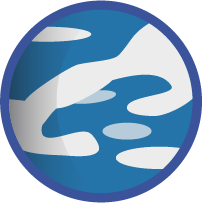
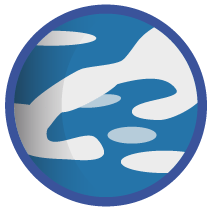
finish planet positionning

diff --git a/styles/style.css b/styles/style.css
@@ -150,7 +150,7 @@ body {
   width: 100%;
   height: 100%;
   border-radius: 50%;
-  background-color: #FFF;
+  background-color: #edc064;
   opacity: 0.6;
   position: absolute;
   top: 0;
@@ -180,9 +180,18 @@ body {
   }
 }
 
+.infos {
+  font-weight: 400;
+  color: #B9B9B9;
+  font-size: 11px;
+  letter-spacing: 4px;
+  text-align: center;
+  text-transform: uppercase;
+  margin-top: 3px;
+}
 .planet_1 {
   background: url(../images/tatooine.png);
-  position: absolute;
+  position: relative;
   top: 250px;
   left: 400px;
   background-size: cover;
@@ -199,7 +208,7 @@ body {
 }
 .planet_2 {
   background: url(../images/naboo.png);
-  position: absolute;
+  position: relative;
   top: 250px;
   left: 600px;
   background-size: cover;
@@ -217,8 +226,8 @@ body {
 
 .planet_3 {
   background: url(../images/hoth.png);
-  position: absolute;
-  top: 600px;
+  position: relative;
+  top: 400px;
   left: 817px;
   background-size: cover;
   width: 76px;
@@ -229,10 +238,81 @@ body {
 .planet_3:hover {
   background: url(../images/hothh.png);
   background-size: cover;
-  width: 77px;
-  height: 77px;
+  width: 76px;
+  height: 75px;
 }
 
+.planet_4 {
+  background: url(../images/mustafar.png);
+  position: relative;
+  top: 200px;
+  left: 900px;
+  background-size: cover;
+  width: 41px;
+  height: 40px;
+  cursor: pointer;
+}
+
+.planet_4:hover {
+  background: url(../images/mustafarh.png);
+  background-size: cover;
+  width: 41px;
+  height: 40px;
+}
+
+.planet_5 {
+  background: url(../images/dagobah.png);
+  position: relative;
+  top: -150px;
+  left: 1200px;
+  background-size: cover;
+  width: 55px;
+  height: 55px;
+  cursor: pointer;
+}
+
+.planet_5:hover {
+  background: url(../images/dagobahh.png);
+  background-size: cover;
+  width: 55px;
+  height: 55px;
+}
+
+.planet_6 {
+  background: url(../images/kaminop.png);
+  position: relative;
+  top: 350px;
+  left: 300px;
+  background-size: cover;
+  width: 85px;
+  height: 85px;
+  cursor: pointer;
+}
+
+.planet_6:hover {
+  background: url(../images/kaminoph.png);
+  background-size: cover;
+  width: 85px;
+  height: 85px;
+}
+
+.planet_7 {
+  background: url(../images/alderaan.png);
+  position: relative;
+  top: 200px;
+  left: 800px;
+  background-size: cover;
+  width: 85px;
+  height: 85px;
+  cursor: pointer;
+}
+
+.planet_7:hover {
+  background: url(../images/alderaanh.png);
+  background-size: cover;
+  width: 85px;
+  height: 85px;
+}
 
 /**********
 
@@ -244,27 +324,30 @@ body {
   position: absolute;
   left: 0;top: 0;bottom: 0;
   width: 400px;
-  height: 400px;
   background-color: #191d3f;
 }
 
-
+.carac > div {
+  vertical-align: top;
+}
 
 .expand-transition {
-  position: absolute;
-  left: 0;top: 0;bottom: 0;
   width: 350px;
-  height: 100%;
   opacity: 1;
   background: linear-gradient(to right, rgba(255,0,0,0), rgba(25, 29, 63, 1));
   transition: all .5s ease;
   -webkit-box-shadow: 5px 0px 28px 0px rgba(0,0,0,0.42);
--moz-box-shadow: 5px 0px 28px 0px rgba(0,0,0,0.42);
-box-shadow: 5px 0px 28px 0px rgba(0,0,0,0.42);
+  -moz-box-shadow: 5px 0px 28px 0px rgba(0,0,0,0.42);
+  box-shadow: 5px 0px 28px 0px rgba(0,0,0,0.42);
 }
 .expand-enter, .expand-leave {
   left: -400px;
   opacity: 0;
+}
+
+#layout {
+  position: absolute;
+  top: 0;right: 0;left: 0;bottom: 0;
 }
 
 .name {
@@ -312,6 +395,7 @@ box-shadow: 5px 0px 28px 0px rgba(0,0,0,0.42);
   height: 37px;
   margin: auto;
   margin-bottom: 8px;
+  cursor: pointer;
 
 }
 
@@ -333,6 +417,7 @@ box-shadow: 5px 0px 28px 0px rgba(0,0,0,0.42);
   height: 37px;
   margin: auto;
   margin-bottom: 8px;
+  cursor: pointer;
 
 }
 
@@ -355,6 +440,7 @@ box-shadow: 5px 0px 28px 0px rgba(0,0,0,0.42);
   height: 34px;
   margin: auto;
   margin-bottom: 8px;
+  cursor: pointer;
 }
 
 .terrain {
@@ -364,9 +450,10 @@ box-shadow: 5px 0px 28px 0px rgba(0,0,0,0.42);
   font-size: 14px;
   font-weight: 400;
   margin-left: 15px;
-  margin-top: 15px;
+  margin-top: 30px;
   text-transform: uppercase;
   text-align: center;
+
 }
 .terrain-image {
   background: url(../images/terrain.svg);
@@ -375,6 +462,7 @@ box-shadow: 5px 0px 28px 0px rgba(0,0,0,0.42);
   height: 34px;
   margin: auto;
   margin-bottom: 8px;
+  cursor: pointer;
 }
 
 .population {
@@ -395,6 +483,7 @@ box-shadow: 5px 0px 28px 0px rgba(0,0,0,0.42);
   height: 34px;
   margin: auto;
   margin-bottom: 8px;
+  cursor: pointer;
 }
 .close {
   background: url(../images/cross.svg);

diff --git a/map.html b/map.html
@@ -11,54 +11,62 @@
 	    <link rel="stylesheet" href="styles/style.css">
 	    
     </head>
-    <div id="planet">
-	    <body class="mapbackground">
-	    <div class="click"> <div class="click-image"></div>Cliquez bande de salopes</div>
-	    <div class="planet_1" v-on:click="displayPlanetInfos('http://swapi.co/api/planets/1/')"></div>
+	<body class="mapbackground" droppable="true">
+	    <div class="click">
+		    <div class="click-image"></div>
+		    <div>Cliquez bande de salopes</div>
+	    </div>
+	    <div class="logomap"></div>
+	    <div id="layout">
+		    <div id="planet">
+			    <div class="planet_1" v-on:click="displayPlanetInfos('http://swapi.co/api/planets/1/')"></div>
 
-		<div class="planet_2" v-on:click="displayPlanetInfos('http://swapi.co/api/planets/8/')"></div>
+				<div class="planet_2" v-on:click="displayPlanetInfos('http://swapi.co/api/planets/8/')"></div>
 
-		<div class="planet_3" v-on:click="displayPlanetInfos('http://swapi.co/api/planets/4/')"></div>
- 	
- 	
- 		<div class="card card1" v-show="cardToggle" transition="expand">
- 			<div v-if="!loading">
+				<div class="planet_3" v-on:click="displayPlanetInfos('http://swapi.co/api/planets/4/')"></div>
 
-				<div class="close" v-on:click="close"></div>
-				<div class="name">{{ name }}</div>
-				<div class="separator"></div>
+				<div class="planet_4" v-on:click="displayPlanetInfos('http://swapi.co/api/planets/13/')"></div>
 
-				<div class="carac">
-					<div class="climate"> <div class="climate-image"></div>{{ climate }}</div>
-					<div class="gravity"> <div class="gravity-image"></div>{{ gravity }}</div>
-					<div class="diameter"><div class="diameter-image"></div>{{ diameter }}</div>
-					<div class="terrain"><div class="terrain-image"></div>{{ terrain }}</div>
-					<div class="population"><div class="population-image"></div> {{ population }}</div>
-					<div class="image "></div>
-					<div class="learnmore" v-on:click="learnmore">Learn more</div>
+				<div class="planet_5" v-on:click="displayPlanetInfos('http://swapi.co/api/planets/5/')"></div>
+
+				<div class="planet_6" v-on:click="displayPlanetInfos('http://swapi.co/api/planets/10/')"></div>
+
+				<div class="planet_7" v-on:click="displayPlanetInfos('http://swapi.co/api/planets/10/')"></div>
+
+				<div class="planet_8" v-on:click="displayPlanetInfos('http://swapi.co/api/planets/10/')"></div>
+
+				<div class="planet_9" v-on:click="displayPlanetInfos('http://swapi.co/api/planets/10/')"></div>
+
+				<div class="planet_10" v-on:click="displayPlanetInfos('http://swapi.co/api/planets/10/')"></div>
+		 	
+		 	
+		 	
+		 		<div class="card card1" v-show="cardToggle" transition="expand">
+		 			<div v-if="!loading">
+
+						<div class="close" v-on:click="close"></div>
+						<div class="name">{{ name }}</div>
+						<div class="separator"></div>
+						<div class="infos">{{ infos }}</div>
+
+						<div class="carac">
+							<div class="climate" v-on:mouseover="setTitle('Climat')"><div class="climate-image"></div>{{ climate }}</div>
+							<div class="gravity" v-on:mouseover="setTitle('Gravity')"> <div class="gravity-image"></div>{{ gravity }}</div>
+							<div class="diameter" v-on:mouseover="setTitle('Diamètre')"><div class="diameter-image"></div>{{ diameter }}</div>
+							<div class="terrain" v-on:mouseover="setTitle('Terrain')"><div class="terrain-image"></div>{{ terrain }}</div>
+							<div class="population" v-on:mouseover="setTitle('Population')"><div class="population-image"></div> {{ population }}</div>
+							<div class="image "></div>
+							<div class="learnmore" v-on:click="learnmore">Learn more</div>
+						</div>
+					</div>
+					<div class="spinner" v-if="loading">
+						<div class="double-bounce1"></div>
+						<div class="double-bounce2"></div>
+					</div>				
 				</div>
 			</div>
-			<div class="spinner" v-if="loading">
-				<div class="double-bounce1"></div>
-				<div class="double-bounce2"></div>
-			</div>
-		
 		</div>
-
-		<div class="logomap"></div>
-
-	</div>
 		
-
-
-
-
-
-
-
-
-
-
 		<script src="scripts/vue.js"></script>
 	    <script src="scripts/main.js"></script>
 

diff --git a/scripts/main.js b/scripts/main.js
@@ -63,6 +63,7 @@ var planet = new Vue({
   data: {
     cardToggle: false,
     name: '',
+    infos: '',
     climate: '',
     gravity: '',
     diameter: '',
@@ -73,32 +74,36 @@ var planet = new Vue({
   },
   methods: {
     displayPlanetInfos: function (url) {
-        this.loading = true
-        var self = this;
-        this.cardToggle = true;
-        AJAX.get(url).then(function(response) {
+      this.infos = ''
+      this.loading = true
+      var self = this;
+      this.cardToggle = true;
+      AJAX.get(url).then(function(response) {
+        data = JSON.parse(response);
+        self.name = data.name
+        self.climate = data.climate
+        self.gravity = data.gravity
+        self.diameter = data.diameter + ' km'
+        self.terrain = data.terrain
+        self.population = data.population
+        AJAX.get(data.films[0]).then(function(response) {
           data = JSON.parse(response);
-          self.name = data.name
-          self.climate = data.climate
-          self.gravity = data.gravity
-          self.diameter = data.diameter + ' km'
-          self.terrain = data.terrain
-          self.population = data.population
-          AJAX.get(data.films[0]).then(function(response) {
-            data = JSON.parse(response);
-            self.loading = false;
-            self.filmName = data.title;
+          self.loading = false;
+          self.filmName = data.title;
 
-          }, function(error) {
-            console.error("Failed!", error);
-          });
         }, function(error) {
           console.error("Failed!", error);
         });
+      }, function(error) {
+        console.error("Failed!", error);
+      });
     },
     close: function () {
-        this.cardToggle = false;
-        this.loading = true;
+      this.cardToggle = false;
+      this.loading = true;
+    },
+    setTitle: function(txt) {
+      this.infos = txt;
     }
   }
 
